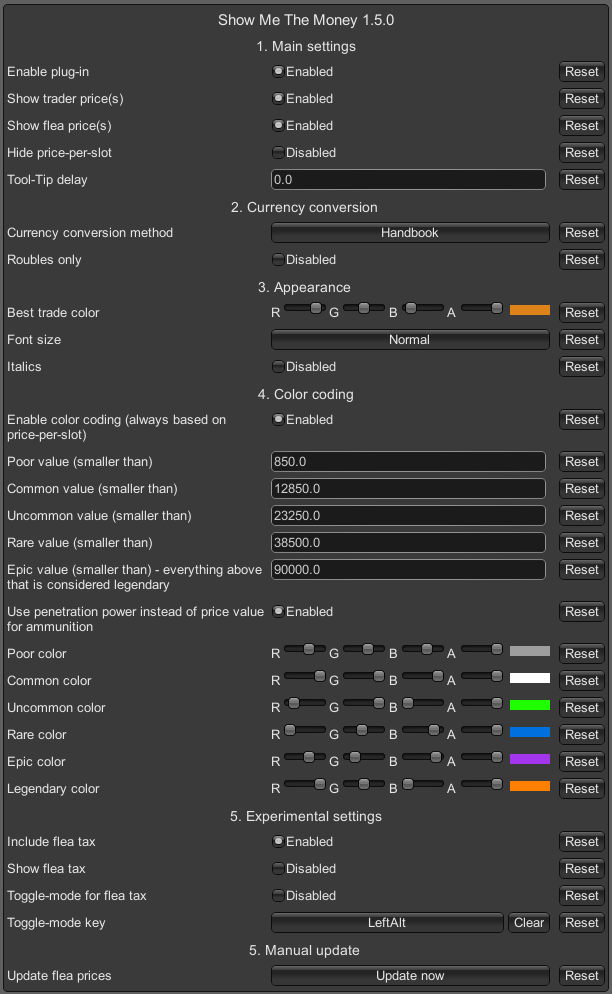
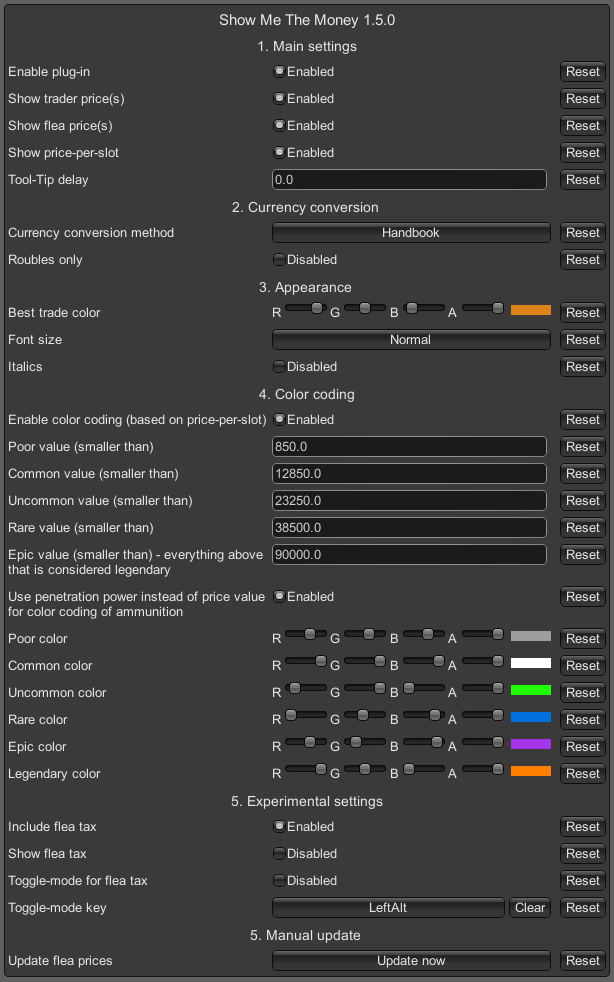
Finalized v1.5.0. Let's release it. :)

Changed region(s): [[0.0, 0.0, 1.0, 1.0], [0.5588, 0.0305, 0.5899, 0.0611]]

diff --git a/Configuration/PluginConfiguration.cs b/Configuration/PluginConfiguration.cs
@@ -21,7 +21,7 @@ public class PluginConfiguration
         this.EnablePlugin = configFile.BindConfiguration("1. Main settings", "Enable plug-in", true, "Enable or disable the plug-in (Default: Enabled).", 4);
         this.ShowTraderPrices = configFile.BindConfiguration("1. Main settings", "Show trader price(s)", true, "Show the trader price(s) in the tool-tip (Default: Enabled).", 3);
         this.ShowFleaPrices = configFile.BindConfiguration("1. Main settings", "Show flea price(s)", true, "Show the flea price(s) in the tool-tip (Default: Enabled).", 2);
-        this.HidePricePerSlot = configFile.BindConfiguration("1. Main settings", "Hide price-per-slot", false, "Hides the price-per-slot in the tool-tip. The mod continues to calculate in the background using price-per-slot, so only the display is deactivated. (Default: Disabled).", 1);
+        this.ShowPricePerSlot = configFile.BindConfiguration("1. Main settings", "Show price-per-slot", true, "Show the price-per-slot in the tool-tip. The mod continues to calculate in the background using price-per-slot, even if the display is deactivated (Default: Disabled).", 1);
         this.ToolTipDelay = configFile.BindConfiguration("1. Main settings", "Tool-Tip delay", 0.0m, "Delays the tool-tip for x seconds. (Plug-In Default: 0, EFT Default: 0.6).", 0);
 
         // --- 2. Currency conversion
@@ -39,7 +39,7 @@ public class PluginConfiguration
         this.RenderInItalics = configFile.BindConfiguration("3. Appearance", "Italics", false, "Renders the price(s) in italics (Default: Disabled).", 0);
 
         // --- 4. Color coding
-        this.EnableColorCoding = configFile.BindConfiguration("4. Color coding", "Enable color coding (always based on price-per-slot)", true, "Uses color coding to give an quick and easy indicator how valueable an item is. Always based on value per slot. Default colors are from WoW (Default: Enabled).", 12);
+        this.EnableColorCoding = configFile.BindConfiguration("4. Color coding", "Enable color coding (based on price-per-slot)", true, "Uses color coding to give an quick and easy indicator how valueable an item is. Always based on price-per-slot, except for ammunition, if you activate the respective feature. Default colors are from WoW (Default: Enabled).", 12);
 
         this.PoorValue = configFile.BindConfiguration("4. Color coding", "Poor value (smaller than)", 850m, "(Default: 850).", 11);
         this.CommonValue = configFile.BindConfiguration("4. Color coding", "Common value (smaller than)", 12850m, "(Default: 12850).", 10);
@@ -47,7 +47,7 @@ public class PluginConfiguration
         this.RareValue = configFile.BindConfiguration("4. Color coding", "Rare value (smaller than)", 38500m, "(Default: 38500).", 8);
         this.EpicValue = configFile.BindConfiguration("4. Color coding", "Epic value (smaller than) - everything above that is considered legendary", 90000m, "(Default: 90000).", 7);
 
-        this.UseCaliberPenetrationPower = configFile.BindConfiguration("4. Color coding", "Use penetration power instead of price value for ammunition", true, "Uses the caliber penetration power value instead of the price value for ammunition for color coding. Color coding values for ammunition are hard-coded currently (Default: Enabled).", 6);
+        this.UseCaliberPenetrationPower = configFile.BindConfiguration("4. Color coding", "Use penetration power instead of price value for color coding of ammunition", true, "Uses the caliber penetration power value instead of the price value for color coding of ammunition. Color coding values for ammunition are hard-coded currently (Poor < 15, Common < 25, Uncommon < 34, Rare < 43, Epic < 55, Legendary >= 55) (Default: Enabled).", 6);
 
         this.PoorColor = configFile.BindConfiguration("4. Color coding", "Poor color", new Color(0.62f, 0.62f, 0.62f), "(Default: R 157, G 157, B 157).", 5);
         this.CommonColor = configFile.BindConfiguration("4. Color coding", "Common color", new Color(1f, 1f, 1f), "(Default: R 255, G 255, B 255).", 4);
@@ -94,7 +94,7 @@ public class PluginConfiguration
 
     public ConfigEntry<bool> ShowFleaPrices { get; private set; }
 
-    public ConfigEntry<bool> HidePricePerSlot { get; private set; }
+    public ConfigEntry<bool> ShowPricePerSlot { get; private set; }
 
     public ConfigEntry<decimal> ToolTipDelay { get; private set; }
     #endregion

diff --git a/Patches/SimpleTooltipShowPatch.cs b/Patches/SimpleTooltipShowPatch.cs
@@ -375,7 +375,7 @@ public class SimpleTooltipShowPatch : ModulePatch
         }
         catch (Exception)
         {
-            Plugin.SimpleSptLogger.LogDebug($"Could not get price from trader: {trader.LocalizedName}");
+            Plugin.SimpleSptLogger.LogDebug($"Could not get price from trader \"{trader.LocalizedName}\". Skipping.");
         }
 
         return singleObjectPrice is not null;
@@ -504,7 +504,7 @@ public class SimpleTooltipShowPatch : ModulePatch
             text.Append($"<color=#{GetBestTradeColor()}>{tradePriceA.TraderName}</color>: ");
         }
 
-        if ((tradeItem.ItemSlotCount > 1 || tradeItem.Item.StackObjectsCount > 1) && !Plugin.Configuration!.HidePricePerSlot.IsEnabled())
+        if ((tradeItem.ItemSlotCount > 1 || tradeItem.Item.StackObjectsCount > 1) && Plugin.Configuration!.ShowPricePerSlot.IsEnabled())
         {
             text.Append($"{FormatPrice(tradePriceA.GetComparePrice(), tradePriceA.CurrencySymbol)} {"Total".Localized(null)}: ");
         }

diff --git a/README.md b/README.md
@@ -80,6 +80,8 @@ Please see the "[For nerds](#for-nerds)" section in this readme, if you want to 
 
 - **Flea market prices:**<br />The display of flea market prices should always be viewed with a degree of caution. The calculations are only theoretical in nature and may give the impression that the actual flea market offers have different prices. In particular, when flea market taxes are included (experimental feature), differences may theoretically arise, especially when presets and packs are put up for sale, as these are not currently taken fully into account in the calculation (I may integrate this in future versions). For more information on the calculations see the "[For nerds](#for-nerds)" section in this readme.
 - The damage report/health condition screen may rarely show the price information tooltip. I'm almost tempted not to fix it. It's too funny.
+- A buddy of mine has a minor problem with the "Toggle-mode for flea tax" where the tooltip sometimes gets "stuck"—meaning the display doesn't jump back when he releases Left-Alt. I haven't been able to figure out what's causing the problem yet. But he also told me that he doesn't think it's a big deal.
+- Some weapons have suffixes in their names, such as "Carbine." These are not always colored by the color coding feature.
 
 ## Problems that may occur
 
